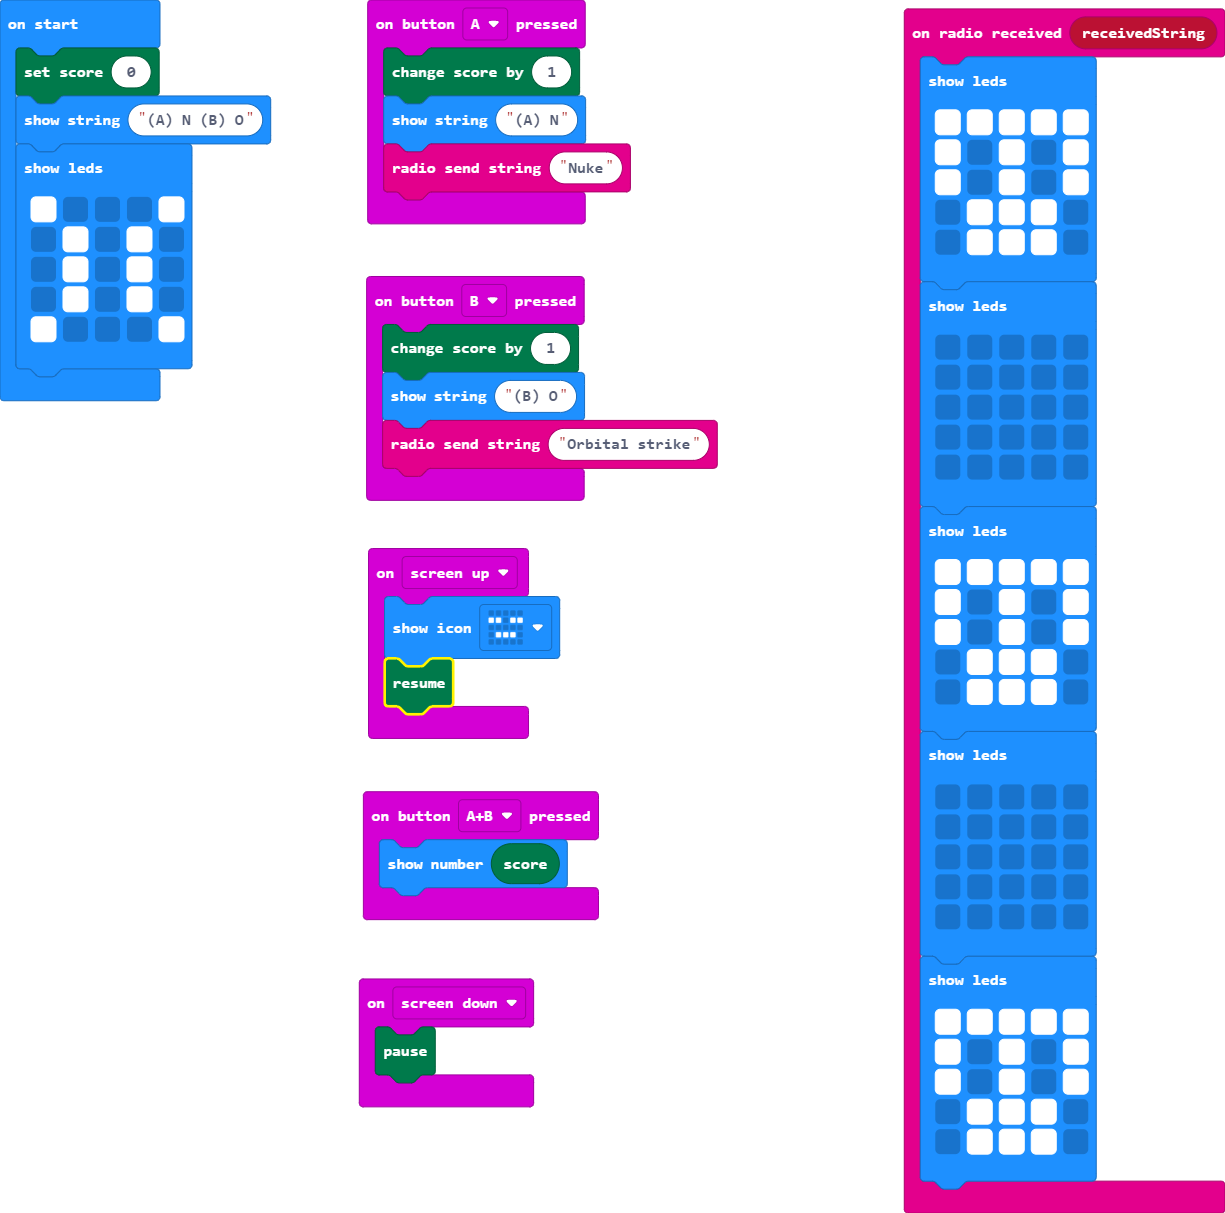
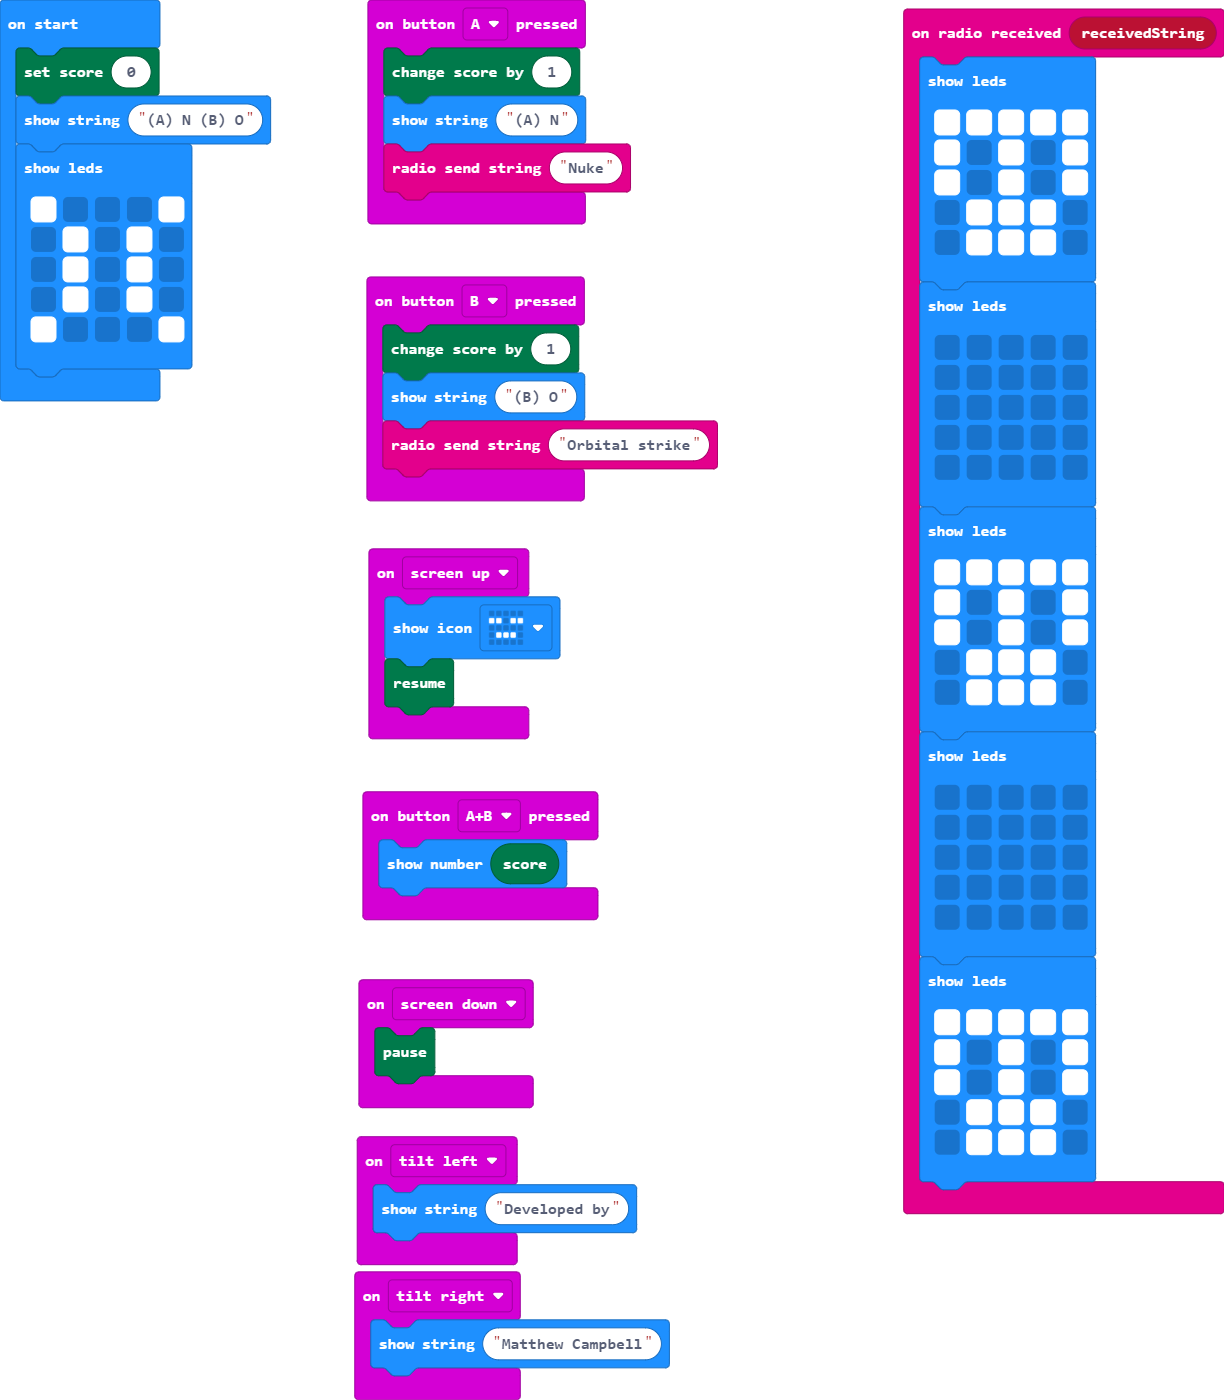
Added Easter Egg :]

diff --git a/main.ts b/main.ts
@@ -3,6 +3,9 @@ input.onButtonPressed(Button.A, function () {
     basic.showString("(A) N")
     radio.sendString("Nuke")
 })
+input.onGesture(Gesture.TiltLeft, function () {
+    basic.showString("Developed by")
+})
 input.onGesture(Gesture.ScreenUp, function () {
     basic.showIcon(IconNames.Asleep)
     game.resume()
@@ -54,6 +57,9 @@ input.onButtonPressed(Button.B, function () {
     game.addScore(1)
     basic.showString("(B) O")
     radio.sendString("Orbital strike")
+})
+input.onGesture(Gesture.TiltRight, function () {
+    basic.showString("Matthew Campbell")
 })
 game.setScore(0)
 basic.showString("(A) N (B) O")
